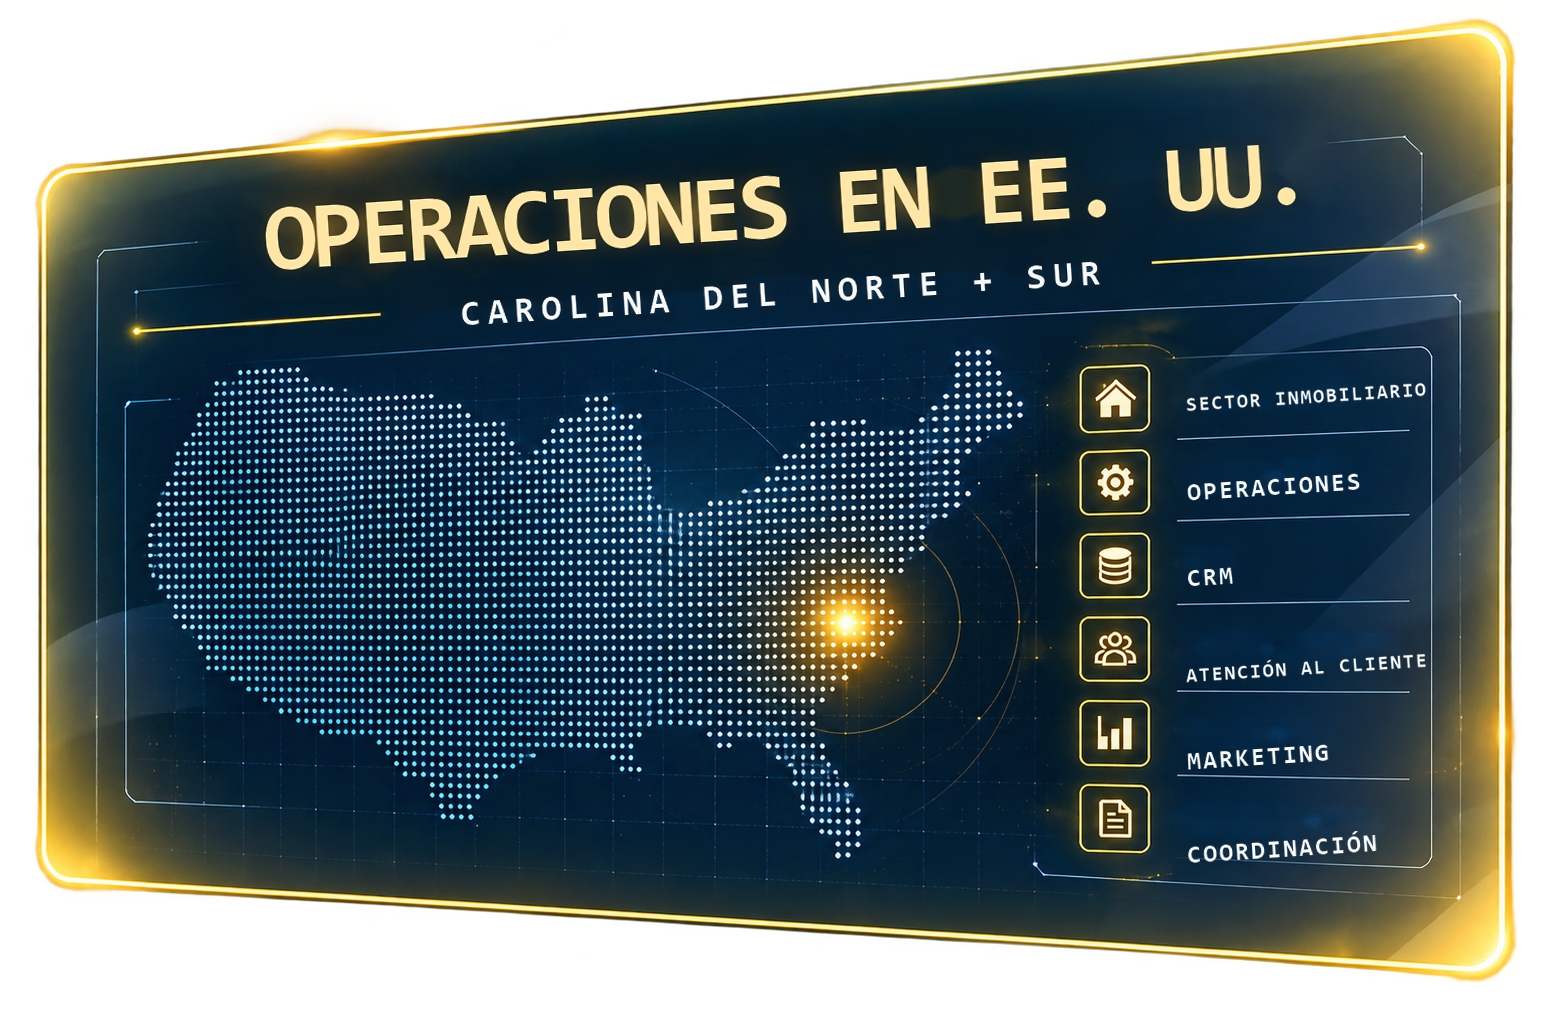
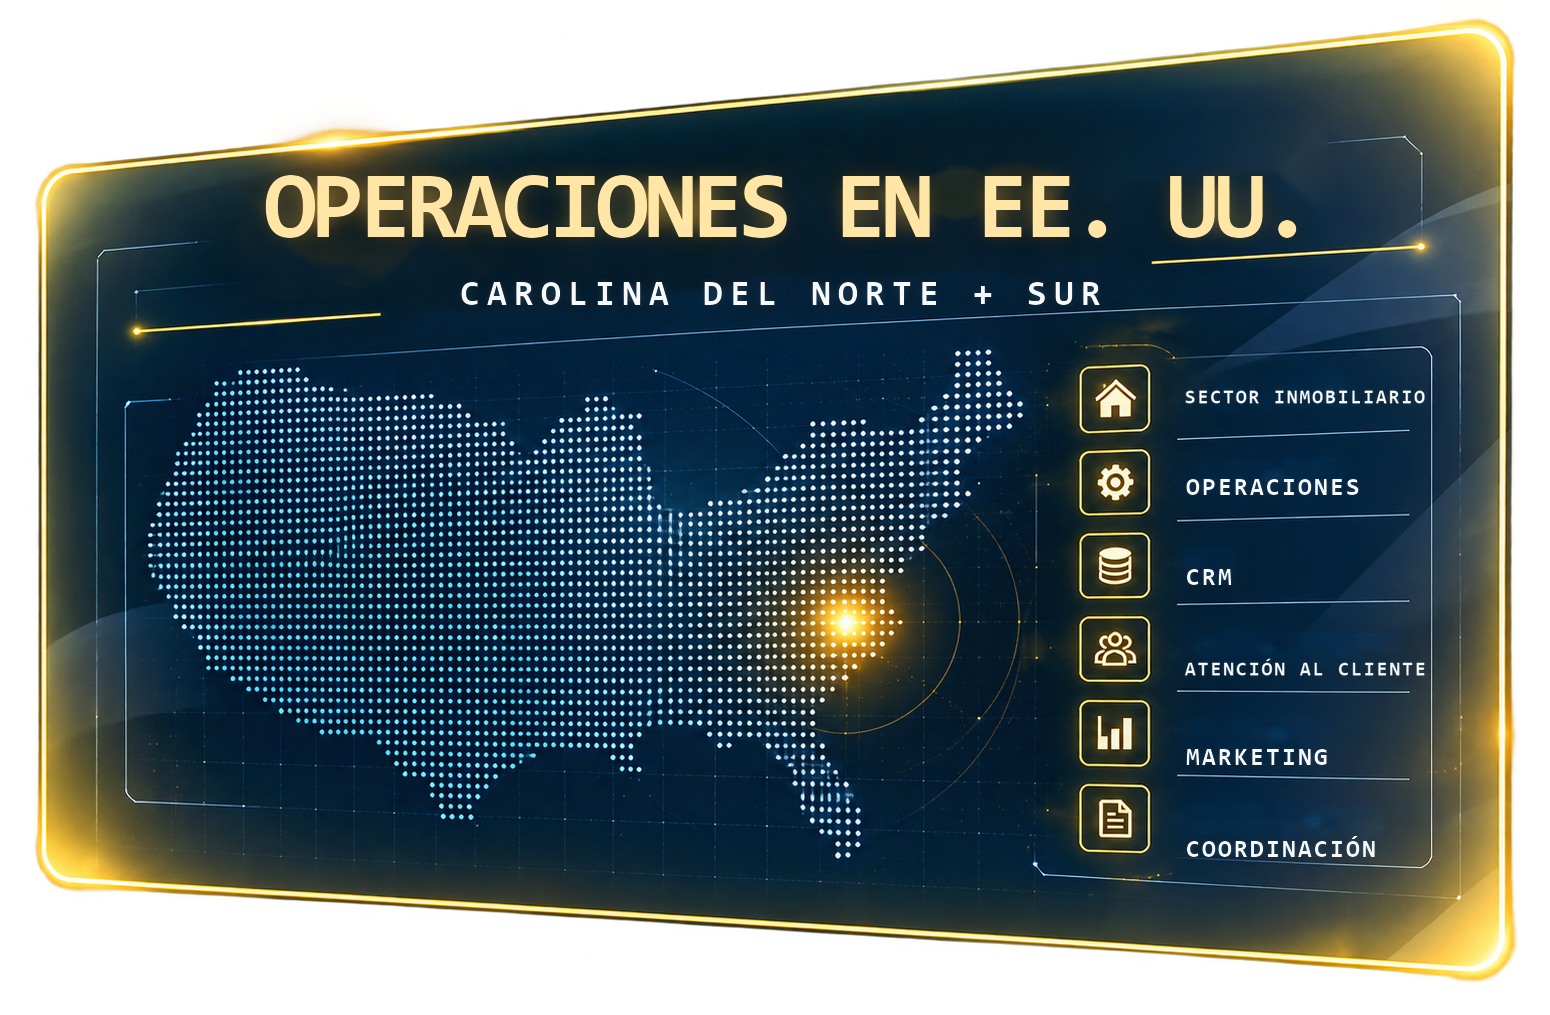
fix: level localized remote panel typography

diff --git a/index.html b/index.html
@@ -669,8 +669,8 @@ body.scrolled .hero{overflow:visible;z-index:100}
         <img class="remote-panel-reference-composite" src="assets/remote/REMOTE_PANEL_REFERENCE_COMPOSITE_EN_20260930.png" alt="" loading="eager" fetchpriority="high" decoding="async" />
       </div>
       <div class="remote-panel-reference-localized">
-        <img class="remote-panel-reference-composite remote-panel-reference-pt" src="assets/remote/REMOTE_PANEL_REFERENCE_COMPOSITE_PT_20261018.png" alt="" loading="eager" fetchpriority="high" decoding="async" />
-        <img class="remote-panel-reference-composite remote-panel-reference-es" src="assets/remote/REMOTE_PANEL_REFERENCE_COMPOSITE_ES_20261018.png" alt="" loading="eager" fetchpriority="high" decoding="async" />
+        <img class="remote-panel-reference-composite remote-panel-reference-pt" src="assets/remote/REMOTE_PANEL_REFERENCE_COMPOSITE_PT_20261018.png?v=level-text-20261018" alt="" loading="eager" fetchpriority="high" decoding="async" />
+        <img class="remote-panel-reference-composite remote-panel-reference-es" src="assets/remote/REMOTE_PANEL_REFERENCE_COMPOSITE_ES_20261018.png?v=level-text-20261018" alt="" loading="eager" fetchpriority="high" decoding="async" />
       </div>
     </div>
     <img class="remote-master-foreground-repair" src="assets/remote/REMOTE_MASTER_FOREGROUND_RESTORE_NO_PANEL_20260930.png" alt="" aria-hidden="true" loading="eager" fetchpriority="high" decoding="sync" />

diff --git a/tools/build_localized_panels.py b/tools/build_localized_panels.py
@@ -9,7 +9,9 @@ ASSET_DIR = ROOT / "assets" / "remote"
 SOURCE = Image.open(ASSET_DIR / "REMOTE_PANEL_REFERENCE_COMPOSITE_EN_20260930.png").convert("RGBA")
 WIDTH, HEIGHT = SOURCE.size
 FONT_PATH = r"C:\Windows\Fonts\consolab.ttf"
-ANGLE = 3.7
+# The frozen EN panel keeps its internal labels level; the glass frame carries
+# the perspective. Localized labels must follow that same baseline.
+ANGLE = 0.0
 
 
 def add_component_text_mask(mask, rect, predicate, component_filter, dilation=7):
